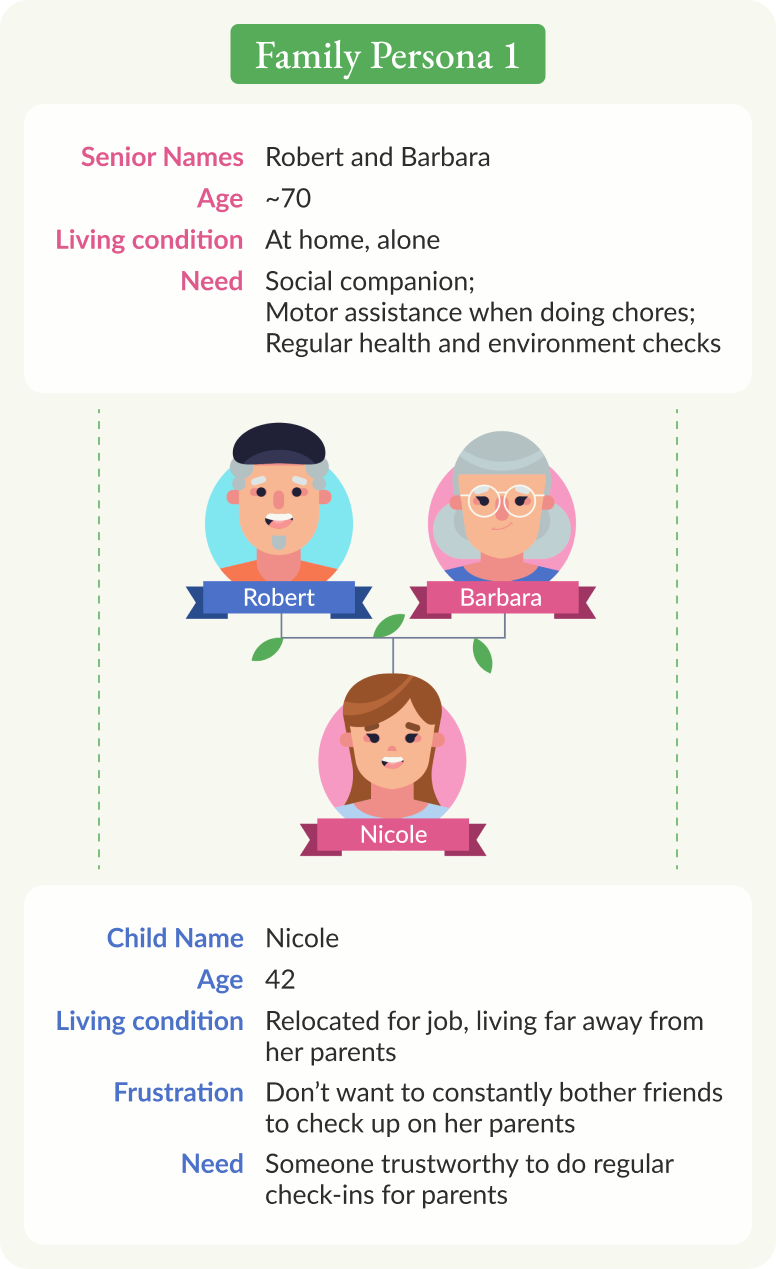
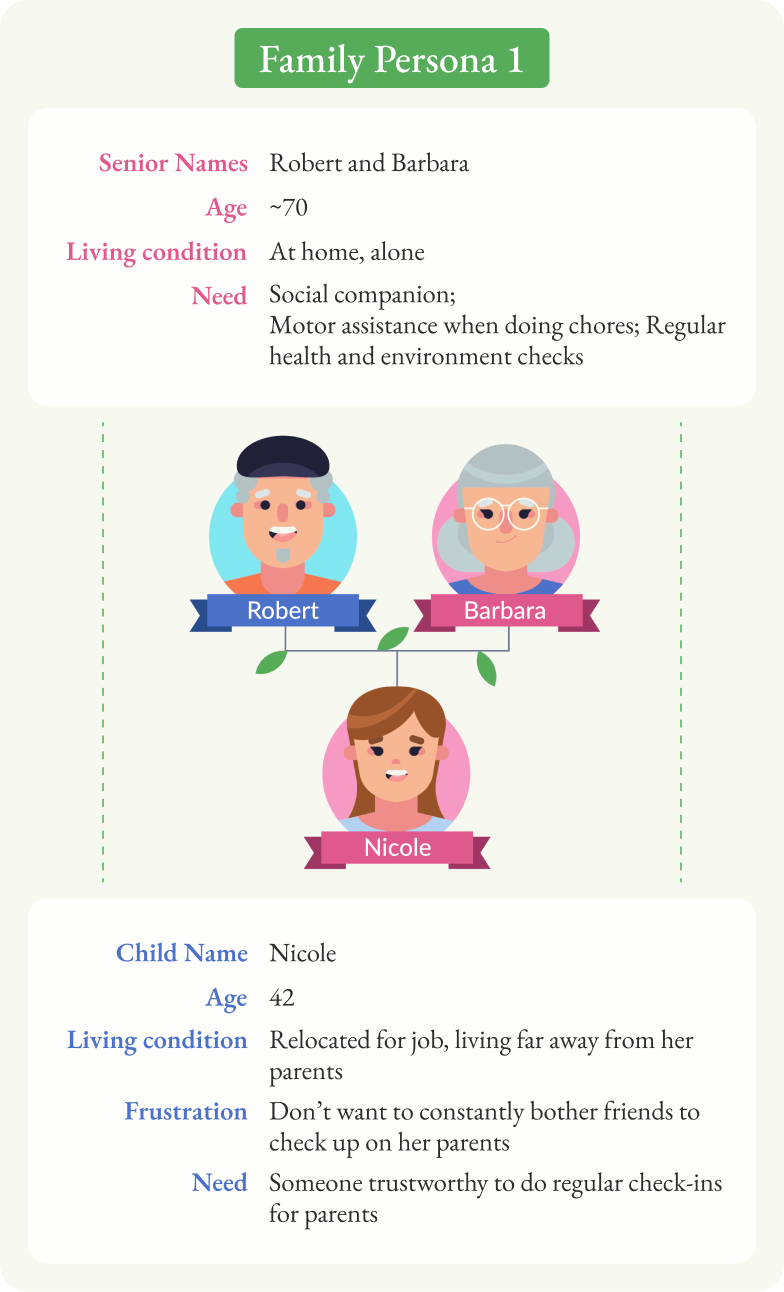
Soften the hero on scroll and keep the timeline noise fixed.
Blur the polaroid and subtitle on the GPU as the hero moves up, crop the timeline specks instead of rescaling them, and point the uServe insights image at the case-study asset.

diff --git a/src/styles/global.css b/src/styles/global.css
@@ -77,6 +77,13 @@ button {
 }
 
 
+/* Registered so the stage fill can ease between the two hero colours. */
+@property --hero-bg {
+  syntax: "<color>";
+  inherits: true;
+  initial-value: #9da37e;
+}
+
 /* ── Hero section — scroll spacer + sticky stage ─────────────────────── */
 .hero-section {
   --hero-panel-reveal: 0;
@@ -84,11 +91,17 @@ button {
   --hero-scroll-length: 100vh;
   --hero-timeline-height: 0px;
   --hero-year-bar-height: 40px;
-  background: #9da37e;
+  --hero-bg: #9da37e;
+  background: var(--hero-bg);
   height: calc(100vh + var(--hero-scroll-length));
   overflow-x: clip;
   position: relative;
+  transition: --hero-bg 0.1s ease;
 }
+
+/* .hero-section:has(.polaroid-wrap:hover) {
+  --hero-bg: #c7aabf;
+} */
 
 .hero-stage {
   background-color: transparent;
@@ -152,13 +165,24 @@ button {
 }
 
 .hero-timelines {
-  background: rgba(0, 0, 0, 0.8);
   color: #f1ff7d;
   flex: 1 1 auto;
   min-height: 0;
   overflow: hidden;
   padding: var(--space-sm) 40px var(--hero-timeline-pad-bottom);
   position: relative;
+}
+
+/* Fixed to the stage, so scrolling only uncovers more. The panel crops the rest. */
+.hero-timelines-noise {
+  bottom: 0;
+  display: block;
+  height: 100vh;
+  left: 0;
+  pointer-events: none;
+  position: absolute;
+  width: 100%;
+  z-index: 0;
 }
 
 .hero-timelines .skill-line {
@@ -192,6 +216,12 @@ button {
   width: var(--hero-polaroid-width);
   will-change: transform;
   z-index: 3;
+}
+
+/* GPU blur. Left off at rest so the card flip stays 3D. */
+.hero-section:not([data-polaroid-sharp]) .hero-polaroid-wrap:not(.is-flipped),
+.hero-section:not([data-polaroid-sharp]) .hero-subtitle {
+  filter: blur(var(--hero-focus-blur, 0px));
 }
 
 /* While the card is turning, lift it over the name, subtitle, and year bar. */
@@ -376,6 +406,8 @@ h1 span {
   display: flex;
   flex-direction: column;
   gap: var(--skill-map-gap);
+  position: relative;
+  z-index: 1;
 }
 
 .skill-bars {
@@ -818,6 +850,10 @@ h1 span {
 @media (prefers-reduced-motion: reduce) {
   html {
     scroll-behavior: auto;
+  }
+
+  .hero-section {
+    transition: none;
   }
 
   .my-wave-track {

diff --git a/src/data/userve.ts b/src/data/userve.ts
@@ -198,10 +198,10 @@ export const userveSections: CaseStudySection[] = [
         heading: "Insights",
         intro:
           "In the competitive POS market, user frustration can undermine conversion and retention at every stage of the customer lifecycle—from initial exposure and onboarding to ongoing power use. Through user interviews, sales team shadowing, and usage data analysis, I identified three critical UX challenges across these stages.",
-        image: {
-          src: "/assets/Identified Problems.png",
-          alt: "Identified problems synthesized from discovery research",
-        },
+        image: image(
+          "Identified Problems.png",
+          "Identified problems synthesized from discovery research",
+        ),
       },
     ],
   },

diff --git a/src/styles/tokens.css b/src/styles/tokens.css
@@ -98,7 +98,7 @@
   --polaroid-flip-turns: 1;
   --polaroid-flip-scale: 0.84;          /* smallest size while the back faces you */
   --polaroid-idle-shine: 0;             /* shine shown before hover, 0–1 */
-  --polaroid-foil-opacity: 0.65;
+  --polaroid-foil-opacity: 0.45;
   --polaroid-foil-brightness: 1.05;
   --polaroid-foil-contrast: 1.5;
   --polaroid-foil-saturate: 0.4;
